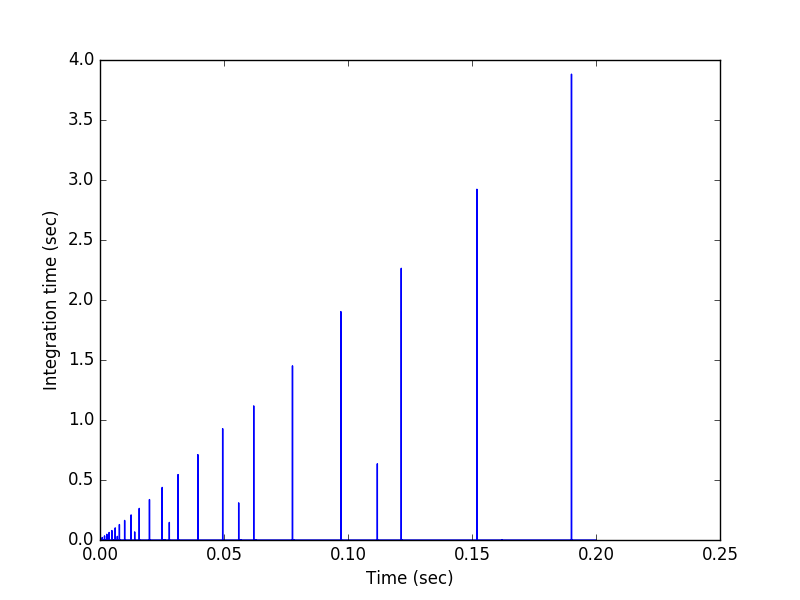
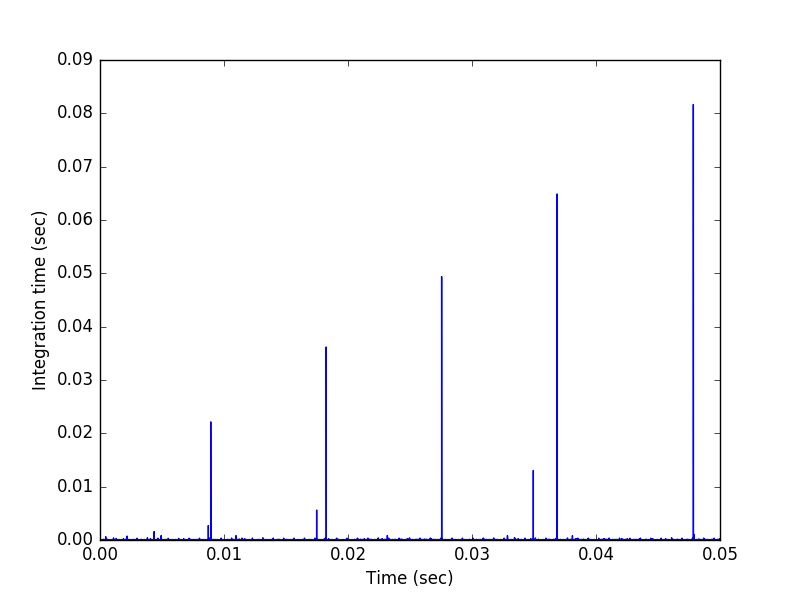
Reran something faster.

diff --git a/Stiffness_CO_H2_rogers_6_21_17_validation.py b/Stiffness_CO_H2_rogers_6_21_17_validation.py
@@ -161,7 +161,7 @@ wj = 1.
 normweights = wi, wj
 
 # Define the range of the computation
-dt = 1.e-8
+dt = 1.e-7
 tstart = 0
 tstop = 0.05
 tlist = np.arange(tstart, tstop + 0.5 * dt, dt)
